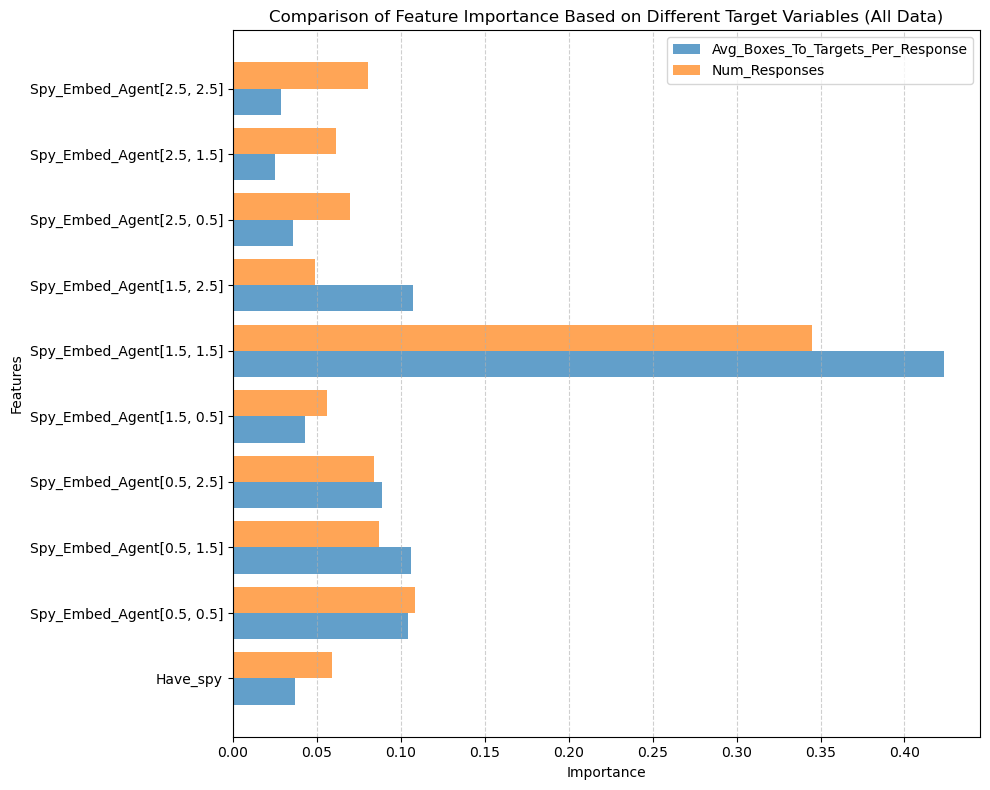
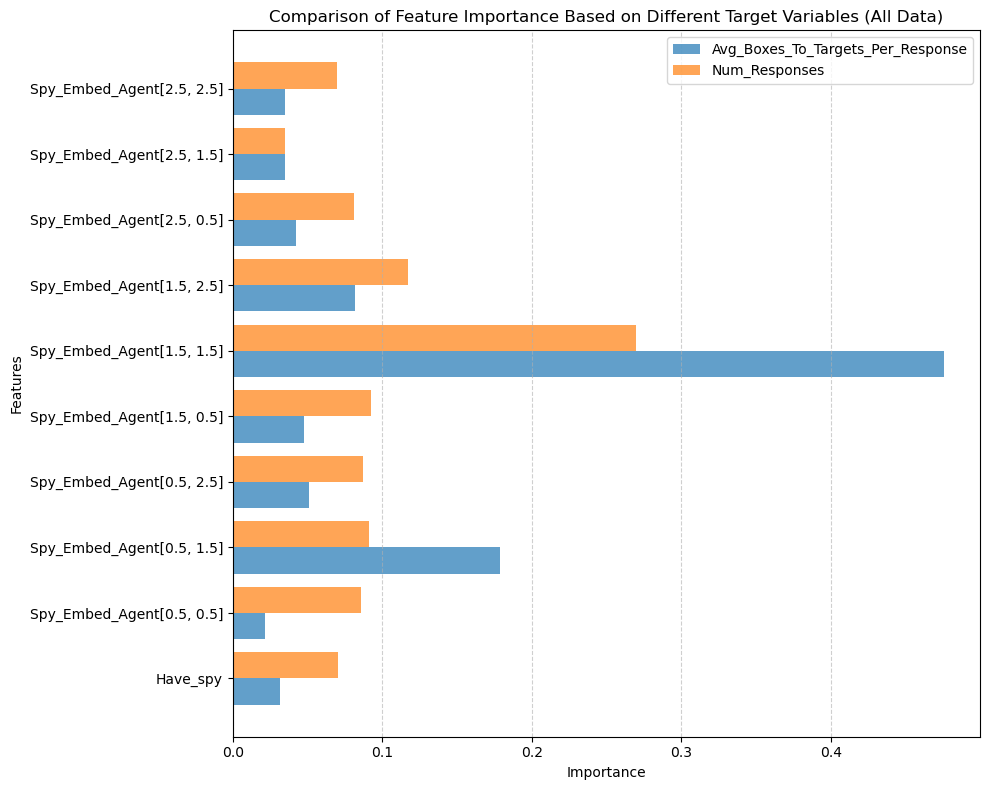
Deployed c6174df with MkDocs version: 1.6.1

diff --git a/evaluation/results/index.html b/evaluation/results/index.html
@@ -941,7 +941,7 @@
 <td align="right">187.714</td>
 <td align="right">228.818</td>
 <td align="right">241.808</td>
-<td align="right">143.333</td>
+<td align="right">156.536</td>
 <td align="right">163.571</td>
 <td align="right">160.292</td>
 </tr>
@@ -950,7 +950,7 @@
 <td align="right">108.593</td>
 <td align="right">133.279</td>
 <td align="right">138.934</td>
-<td align="right">77.282</td>
+<td align="right">85.747</td>
 <td align="right">90.352</td>
 <td align="right">87.453</td>
 </tr>
@@ -959,7 +959,7 @@
 <td align="right">-0.388</td>
 <td align="right">-0.333</td>
 <td align="right">-0.279</td>
-<td align="right">-0.74</td>
+<td align="right">-0.661</td>
 <td align="right">-0.622</td>
 <td align="right">-0.567</td>
 </tr>
@@ -968,7 +968,7 @@
 <td align="right">-0.27</td>
 <td align="right">-0.24</td>
 <td align="right">-0.191</td>
-<td align="right">-0.465</td>
+<td align="right">-0.417</td>
 <td align="right">-0.371</td>
 <td align="right">-0.334</td>
 </tr>
@@ -977,7 +977,7 @@
 <td align="right">0.406</td>
 <td align="right">0.271</td>
 <td align="right">0.278</td>
-<td align="right">0.391</td>
+<td align="right">0.365</td>
 <td align="right">0.271</td>
 <td align="right">0.278</td>
 </tr>
@@ -986,7 +986,7 @@
 <td align="right">28.4</td>
 <td align="right">35.8</td>
 <td align="right">36.95</td>
-<td align="right">22.417</td>
+<td align="right">24.105</td>
 <td align="right">35.8</td>
 <td align="right">36.95</td>
 </tr>
@@ -995,7 +995,7 @@
 <td align="right">0.7</td>
 <td align="right">0.55</td>
 <td align="right">0.65</td>
-<td align="right">0.75</td>
+<td align="right">0.737</td>
 <td align="right">0.7</td>
 <td align="right">0.6</td>
 </tr>
@@ -1004,7 +1004,7 @@
 <td align="right">0.563</td>
 <td align="right">nan</td>
 <td align="right">nan</td>
-<td align="right">0.632</td>
+<td align="right">0.592</td>
 <td align="right">nan</td>
 <td align="right">nan</td>
 </tr>
@@ -1013,7 +1013,7 @@
 <td align="right">0.647</td>
 <td align="right">nan</td>
 <td align="right">nan</td>
-<td align="right">0.676</td>
+<td align="right">0.641</td>
 <td align="right">nan</td>
 <td align="right">nan</td>
 </tr>
@@ -1022,7 +1022,7 @@
 <td align="right">0.622</td>
 <td align="right">nan</td>
 <td align="right">nan</td>
-<td align="right">0.631</td>
+<td align="right">0.613</td>
 <td align="right">nan</td>
 <td align="right">nan</td>
 </tr>
@@ -1031,7 +1031,7 @@
 <td align="right">0.627</td>
 <td align="right">0.553</td>
 <td align="right">0.554</td>
-<td align="right">0.612</td>
+<td align="right">0.611</td>
 <td align="right">nan</td>
 <td align="right">nan</td>
 </tr>
@@ -1053,47 +1053,47 @@
 <tbody>
 <tr>
 <td align="left">Average-AUC-Norm1</td>
-<td align="right">187.532</td>
-<td align="right">229.138</td>
-<td align="right">242.402</td>
-<td align="right">143.308</td>
-<td align="right">163.369</td>
-<td align="right">160.406</td>
+<td align="right">187.369</td>
+<td align="right">228.863</td>
+<td align="right">241.998</td>
+<td align="right">156.594</td>
+<td align="right">163.61</td>
+<td align="right">160.321</td>
 </tr>
 <tr>
 <td align="left">Average-AUC-Norm2</td>
-<td align="right">108.44</td>
-<td align="right">133.444</td>
-<td align="right">139.312</td>
-<td align="right">77.283</td>
-<td align="right">90.217</td>
-<td align="right">87.539</td>
+<td align="right">108.398</td>
+<td align="right">133.285</td>
+<td align="right">139.057</td>
+<td align="right">85.789</td>
+<td align="right">90.377</td>
+<td align="right">87.479</td>
 </tr>
 <tr>
 <td align="left">Average-avg-Box-To-Targets-Per-Response</td>
 <td align="right">0.406</td>
 <td align="right">0.271</td>
-<td align="right">0.278</td>
-<td align="right">0.391</td>
+<td align="right">0.277</td>
+<td align="right">0.365</td>
 <td align="right">0.333</td>
 <td align="right">0.29</td>
 </tr>
 <tr>
 <td align="left">Average-Responses</td>
-<td align="right">28.364</td>
-<td align="right">35.83</td>
-<td align="right">36.923</td>
-<td align="right">22.436</td>
-<td align="right">26.272</td>
-<td align="right">28.899</td>
+<td align="right">28.41</td>
+<td align="right">35.773</td>
+<td align="right">36.958</td>
+<td align="right">24.096</td>
+<td align="right">26.279</td>
+<td align="right">28.87</td>
 </tr>
 <tr>
 <td align="left">Average-Convergence-Rate</td>
-<td align="right">0.703</td>
+<td align="right">0.699</td>
 <td align="right">0.55</td>
-<td align="right">0.652</td>
-<td align="right">0.749</td>
-<td align="right">0.701</td>
+<td align="right">0.649</td>
+<td align="right">0.736</td>
+<td align="right">0.702</td>
 <td align="right">0.601</td>
 </tr>
 </tbody>
@@ -1227,7 +1227,7 @@
     </div>
 </div>
 
-<p>When having all the data, we can clearly see how the presence of spy may effect performance, especially for <code>Number of response</code>. We performed follow-up bootstrapped hypothesis testing with <code>alpha-value=0.1</code> and test-statistics as differences in mean.
+<p>When having all the data, we can clearly see how the presence of spy may effect performance, especially for <code>Number of response</code>. We performed follow-up bootstrapped hypothesis testing with <code>alpha-value=0.05</code> and test-statistics as differences in mean.
 - H0: There is no difference in the mean convergence times between the two groups.
 - H1: There is difference in the mean convergence times between the two groups.</p>
 <div style="display: flex; justify-content: space-around;">
@@ -1236,7 +1236,7 @@
     </div>
 </div>
 
-<p>The p-value represents the probability of obtaining a test statistic as extreme as, or more extreme than, the one observed, assuming that the null hypothesis (H0) is true. We randomly bootstrapped from the full data distribution uniformally and calculated (mean_spy - mean_no_spy) as our test statistics (bootstrapped differences in mean, normally distributed). Our observed statistics falls on the tail of such distribution with <code>P=0.07</code>, which is below our <code>alpha</code> value. Hence, we reject H0. With more data collected, we will get better understanding of our performance.</p>
+<p>The p-value represents the probability of obtaining a test statistic as extreme as, or more extreme than, the one observed, assuming that the null hypothesis (H0) is true. We randomly bootstrapped from the full data distribution uniformally and calculated (mean_spy - mean_no_spy) as our test statistics (bootstrapped differences in mean, normally distributed). Our observed statistics falls on the tail of such distribution with <code>P=0.049</code>, which is below our <code>alpha</code> value. Hence, we reject H0. With more data collected, we will get better understanding of our performance.</p>
 
 
 
